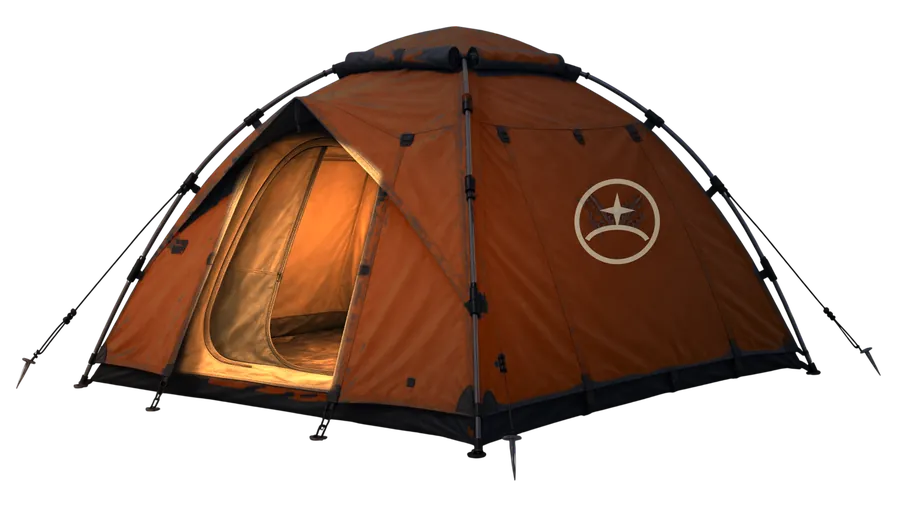
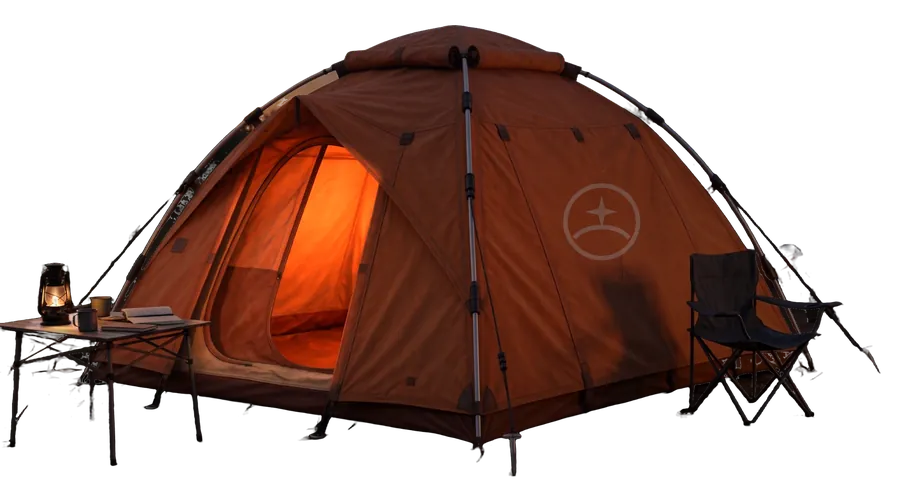
Camp: client's new tents, grounded lower, hover-expand labels
Use the client's three tent PNGs (with props): bookshelf icon on the
Library tent, About Us mirrored with the project mark. Place everything
lower on the dirt, tents larger, fire at 0.8x. Labels show only the
name; the description slides out on hover/focus.

Claude-Session: https://claude.ai/code/session_01KAb8PCX4ozAzeaMNThKSZM

diff --git a/index.html b/index.html
@@ -115,10 +115,10 @@
     <ul class="gc-camp__places" role="list">
 
       <li class="gc-camp__item">
-        <a class="gc-place gc-campfire" href="/kitchen-ideas/" style="--x:.62;--y:.745;--w:.13;--ar:.7122" aria-labelledby="gc-place-kitchen" aria-describedby="gc-place-kitchen-desc">
+        <a class="gc-place gc-campfire" href="/kitchen-ideas/" style="--x:.615;--y:.82;--w:.104;--ar:.7122" aria-labelledby="gc-place-kitchen" aria-describedby="gc-place-kitchen-desc">
           <span class="gc-place__art gc-campfire__art" aria-hidden="true">
             <span class="gc-campfire__glow"></span>
-            <img class="gc-campfire__img" src="assets/img/campfire-800.webp" srcset="assets/img/campfire-420.webp 420w, assets/img/campfire-800.webp 800w" sizes="(min-width: 900px) 14vw, 13.5rem" width="800" height="570" alt="">
+            <img class="gc-campfire__img" src="assets/img/campfire-800.webp" srcset="assets/img/campfire-420.webp 420w, assets/img/campfire-800.webp 800w" sizes="(min-width: 900px) 12vw, 13.5rem" width="800" height="570" alt="">
             <span class="gc-campfire__flame gc-campfire__flame--1"></span>
             <span class="gc-campfire__flame gc-campfire__flame--2"></span>
             <span class="gc-campfire__flame gc-campfire__flame--3"></span>
@@ -132,11 +132,11 @@
       </li>
 
       <li class="gc-camp__item">
-        <a class="gc-place gc-cabin gc-cabin--library" href="/library/" style="--x:.22;--y:.727;--w:.22;--ar:.5615;--sx:-.1" aria-labelledby="gc-place-library" aria-describedby="gc-place-library-desc">
+        <a class="gc-place gc-cabin gc-cabin--library" href="/library/" style="--x:.235;--y:.815;--w:.25;--ar:.558;--sx:-.1" aria-labelledby="gc-place-library" aria-describedby="gc-place-library-desc">
           <span class="gc-place__art" aria-hidden="true">
             <span class="gc-place__shadow"></span><span class="gc-place__light"></span>
-            <img class="gc-place__img" src="assets/img/tent-library-900.webp" srcset="assets/img/tent-library-260.webp 260w, assets/img/tent-library-520.webp 520w, assets/img/tent-library-900.webp 900w, assets/img/tent-library-1400.webp 1400w" sizes="(min-width: 900px) 24vw, 6.5rem" width="900" height="505" alt="" decoding="async">
-            <img class="gc-place__glow" src="assets/img/tent-library-glow.webp" width="520" height="292" alt="" loading="lazy">
+            <img class="gc-place__img" src="assets/img/tent-library-900.webp" srcset="assets/img/tent-library-260.webp 260w, assets/img/tent-library-520.webp 520w, assets/img/tent-library-900.webp 900w, assets/img/tent-library-1400.webp 1400w" sizes="(min-width: 900px) 27vw, 6.5rem" width="900" height="502" alt="" decoding="async">
+            <img class="gc-place__glow" src="assets/img/tent-library-glow.webp" width="520" height="290" alt="" loading="lazy">
           </span>
           <span class="gc-place__label">
             <span class="gc-place__name" id="gc-place-library">Library</span>
@@ -146,11 +146,11 @@
       </li>
 
       <li class="gc-camp__item">
-        <a class="gc-place gc-cabin gc-cabin--study" href="/study-groups/" style="--x:.395;--y:.66;--w:.165;--ar:.5615;--sx:-.08" aria-labelledby="gc-place-study" aria-describedby="gc-place-study-desc">
+        <a class="gc-place gc-cabin gc-cabin--study" href="/study-groups/" style="--x:.445;--y:.735;--w:.19;--ar:.558;--sx:-.08" aria-labelledby="gc-place-study" aria-describedby="gc-place-study-desc">
           <span class="gc-place__art" aria-hidden="true">
             <span class="gc-place__shadow"></span><span class="gc-place__light"></span>
-            <img class="gc-place__img" src="assets/img/tent-study-900.webp" srcset="assets/img/tent-study-260.webp 260w, assets/img/tent-study-520.webp 520w, assets/img/tent-study-900.webp 900w, assets/img/tent-study-1400.webp 1400w" sizes="(min-width: 900px) 18vw, 6.5rem" width="900" height="505" alt="" decoding="async">
-            <img class="gc-place__glow" src="assets/img/tent-study-glow.webp" width="520" height="292" alt="" loading="lazy">
+            <img class="gc-place__img" src="assets/img/tent-study-900.webp" srcset="assets/img/tent-study-260.webp 260w, assets/img/tent-study-520.webp 520w, assets/img/tent-study-900.webp 900w, assets/img/tent-study-1400.webp 1400w" sizes="(min-width: 900px) 21vw, 6.5rem" width="900" height="502" alt="" decoding="async">
+            <img class="gc-place__glow" src="assets/img/tent-study-glow.webp" width="520" height="290" alt="" loading="lazy">
           </span>
           <span class="gc-place__label">
             <span class="gc-place__name" id="gc-place-study">Study Groups</span>
@@ -160,11 +160,11 @@
       </li>
 
       <li class="gc-camp__item">
-        <a class="gc-place gc-cabin gc-cabin--about" href="/about/" style="--x:.80;--y:.715;--w:.2;--ar:.5615;--sx:.1" aria-labelledby="gc-place-about" aria-describedby="gc-place-about-desc">
+        <a class="gc-place gc-cabin gc-cabin--about" href="/about/" style="--x:.80;--y:.80;--w:.235;--ar:.558;--sx:.1" aria-labelledby="gc-place-about" aria-describedby="gc-place-about-desc">
           <span class="gc-place__art" aria-hidden="true">
             <span class="gc-place__shadow"></span><span class="gc-place__light"></span>
-            <img class="gc-place__img" src="assets/img/tent-about-900.webp" srcset="assets/img/tent-about-260.webp 260w, assets/img/tent-about-520.webp 520w, assets/img/tent-about-900.webp 900w, assets/img/tent-about-1400.webp 1400w" sizes="(min-width: 900px) 22vw, 6.5rem" width="900" height="505" alt="" decoding="async">
-            <img class="gc-place__glow" src="assets/img/tent-about-glow.webp" width="520" height="292" alt="" loading="lazy">
+            <img class="gc-place__img" src="assets/img/tent-about-900.webp" srcset="assets/img/tent-about-260.webp 260w, assets/img/tent-about-520.webp 520w, assets/img/tent-about-900.webp 900w, assets/img/tent-about-1400.webp 1400w" sizes="(min-width: 900px) 26vw, 6.5rem" width="900" height="502" alt="" decoding="async">
+            <img class="gc-place__glow" src="assets/img/tent-about-glow.webp" width="520" height="290" alt="" loading="lazy">
           </span>
           <span class="gc-place__label">
             <span class="gc-place__name" id="gc-place-about">About Us</span>

diff --git a/assets/css/main.css b/assets/css/main.css
@@ -324,11 +324,13 @@ ul[role="list"], ol[role="list"] { list-style: none; margin: 0; padding: 0; }
   }
 
   /* Label = a small plaque on the ground, under the element. */
-  .gc-place__label { width: max-content; max-width: 11.5rem; padding: .625rem .875rem; text-align: center; background: var(--color-scrim); border: 1px solid rgb(255 255 255 / .18); border-radius: 10px; }
+  .gc-place__label { position: relative; width: max-content; padding: .625rem 1rem; text-align: center; background: var(--color-scrim); border: 1px solid rgb(255 255 255 / .18); border-radius: 10px; }
   .gc-place:is(:hover, :focus-visible) .gc-place__label { border-color: rgb(255 200 61 / .8); }
-  .gc-cabin--study .gc-place__label { translate: 14% 0; } /* clear of the Library tent's guy lines */
   .gc-place__name { font-size: clamp(.9375rem, .8rem + .2vw, 1.0625rem); }
-  .gc-place__desc { font-size: clamp(.75rem, .7rem + .1vw, .8125rem); line-height: 1.4; }
+  /* Only the name shows at rest; the description slides out below it on hover/focus. */
+  .gc-place__desc { position: absolute; top: calc(100% + 6px); left: 50%; width: max-content; max-width: 13rem; margin: 0; padding: .5rem .75rem; font-size: clamp(.75rem, .7rem + .1vw, .8125rem); line-height: 1.4; background: rgb(0 12 30 / .92); border: 1px solid rgb(255 200 61 / .45); border-radius: 10px; opacity: 0; pointer-events: none; transform: translate(-50%, -6px); transition: opacity var(--duration-base) var(--ease-out), transform var(--duration-base) var(--ease-out); }
+  .gc-place:is(:hover, :focus-visible) { z-index: 5; }
+  .gc-place:is(:hover, :focus-visible) .gc-place__desc { opacity: 1; pointer-events: auto; transform: translate(-50%, 0); }
 
   .gc-place__art { width: 100%; }
   .gc-cabin { padding: 0; background: none; border: 0; }
@@ -338,9 +340,9 @@ ul[role="list"], ol[role="list"] { list-style: none; margin: 0; padding: 0; }
 /* Compact range (900–1199px): smaller plaques, no eyebrow, so labels and intro never collide. */
 @media (min-width: 900px) and (max-width: 1199.98px) {
   .gc-hero__eyebrow { display: none; }
-  .gc-place__label { max-width: 9.5rem; padding: .5rem .625rem; }
+  .gc-place__label { padding: .5rem .75rem; }
   .gc-place__name { font-size: .875rem; }
-  .gc-place__desc { font-size: .75rem; line-height: 1.35; }
+  .gc-place__desc { max-width: 11rem; font-size: .75rem; line-height: 1.35; }
 }
 
 /* --- Campfire (graded asset + three screen-blended flame copies flickering at 1.7/2.3/3.1s) */

diff --git a/README.md b/README.md
@@ -41,16 +41,16 @@ All images are WebP, served through `srcset`, so retina screens get sharp versio
 |---|---|
 | `assets/img/camp-bg-{1280,1920,2560,3342}.webp` | The client's dusk photo. Its original tents and fire were removed (LaMa inpainting), then it was upscaled 2× (EDSR super-resolution) |
 | `assets/img/camp-bg-portrait-{540,1060}.webp` | Phone version: a crop around the lake and fire, softly blurred because it sits under a scrim |
-| `assets/img/tent-{library,study,about}-{260,520,900,1400}.webp` | Tents, built from the client's transparent tent PNG |
+| `assets/img/tent-{library,study,about}-{260,520,900,1400}.webp` | The client's three tent PNGs, with their props: suitcase, books and lantern (Library); backpack (Study Groups); chair and table (About Us) |
 | `assets/img/tent-*-glow.webp` | Extra interior light, shown on hover and focus (`mix-blend-mode: screen`) |
 | `assets/img/campfire-{420,800}.webp` | The client's fire pit PNG, graded: dusk ambient, firelight on logs and stones, ember glow |
 | `assets/img/campfire-flame.webp` | The flames only. Three copies of it flicker at 1.7, 2.3 and 3.1 s |
 
 How the tents were built:
 
-- **Fabric colour:** recoloured to the reference. Library is olive, Study Groups grey and About Us orange.
+- **Fabric colour:** each tent keeps its own colour: blue for Library, beige for Study Groups and orange for About Us.
 - **Side icons:** the client's bookshelf icon for Library, the original group icon for Study Groups, and the project mark for About Us (in place of the lightbulb).
-- **Lighting:** graded to the dusk scene, with cool ambient light and a warm key from the fire side. The interior is lamp-lit through the door.
+- **Lighting:** graded to the dusk scene, with cool ambient light and a warm key from the fire side. The interior is lamp-lit through the door, and the lanterns keep their flames.
 - **Orientation:** About Us is mirrored, so its door faces left towards the fire. Mirroring keeps full resolution.
 
 ### Framing and coordinates
@@ -73,26 +73,26 @@ Each place is pinned to the same spot of the photo with values in **image fracti
 | `--x` | Horizontal centre of the element (0–1 of the photo width) |
 | `--y` | Bottom of the art, i.e. the stake tips or the base of the stones (0–1 of the photo height) |
 | `--w` | Width of the art (0–1 of the photo width) |
-| `--ar` | Art height ÷ width: 0.5615 for the tents, 0.7122 for the fire |
+| `--ar` | Art height ÷ width: 0.558 for the tents, 0.7122 for the fire |
 | `--sx` | Offset of the cast shadow. Negative values push it left, away from the fire |
 
-The ground of the photo was mapped and every element stands on the dirt clearing, which spans about x .20–.90 and y .60–.85. The back corners of each tent footprint stay on dirt, not on the bushes or the slope. The scale is realistic: the fire ring is about two thirds of a tent's width.
+The ground of the photo was mapped and every element stands on the dirt clearing, which spans about x .20–.90 and y .60–.85. The back corners of each tent footprint stay on dirt, not on the bushes or the slope. The scale is realistic: the fire ring is less than half a tent's width.
 
 | Place | `--x` | `--y` | `--w` |
 |---|---|---|---|
-| Kitchen Ideas (fire) | .62 | .745 | .13 |
-| Library | .22 | .727 | .22 |
-| Study Groups | .395 | .66 | .165 |
-| About Us | .80 | .715 | .20 |
+| Kitchen Ideas (fire) | .615 | .82 | .104 |
+| Library | .235 | .815 | .25 |
+| Study Groups | .445 | .735 | .19 |
+| About Us | .80 | .80 | .235 |
 
-**Labels.** The labels sit on the ground under each element, which keeps the sky clear for the title. They use Poppins (sans-serif) with generous vertical padding and have no underline on hover. From 900 to 1199px they are compact and the eyebrow line is hidden.
+**Labels.** A label sits on the ground under each element and shows only the category name, in Poppins (sans-serif) with generous vertical padding. On hover or keyboard focus, the description slides out below it, animated with opacity and transform only. It is always exposed to screen readers through `aria-describedby`. Phones keep the description visible in the cards, because they have no hover. From 900 to 1199px the labels are compact and the eyebrow line is hidden.
 
 **Below 900px.** The fire comes first, followed by three full-width cards, each with a tent on the left.
 
 ### Hover and focus
 
-- **Tents:** the tent rises 3px, the extra interior light fades in, the cast shadow tightens and the door light on the ground brightens. The label name and border turn amber.
-- **Fire:** the flames brighten.
+- **Tents:** the tent rises 3px, the extra interior light fades in, the cast shadow tightens and the door light on the ground brightens. The label name and border turn amber, and the description appears.
+- **Fire:** the flames brighten, and the description appears.
 
 ## WordPress conversion
 
@@ -154,7 +154,7 @@ The palette was sampled from the current site. The teal is darkened from `#00839
 | File | Size | Budget |
 |---|---|---|
 | `index.html` | 23.7 KB | ≤ 60 KB ✅ |
-| `assets/css/main.css` | 28.5 KB | ≤ 30 KB ✅ |
+| `assets/css/main.css` | 29.0 KB | ≤ 30 KB ✅ |
 | `assets/js/main.js` | 3.9 KB | ≤ 8 KB ✅ |
 | Fonts | 43 KB (4 files) | — |
 
@@ -171,7 +171,7 @@ All requests are local. There are no third-party requests.
 
 | Profile | Performance | Accessibility | Best Practices | SEO | LCP | FCP | CLS | TBT |
 |---|---|---|---|---|---|---|---|---|
-| Mobile (slow 4G, 4× CPU) | 98 | 100 | 100 | 92* | 2.4 s | 1.2 s | 0.002 | 0 ms |
+| Mobile (slow 4G, 4× CPU) | 97–98 | 100 | 100 | 92* | 2.4 s | 1.2 s | 0.002 | 0 ms |
 | Desktop | 100 | 100 | 100 | 92* | 0.7 s | 0.4 s | 0.001 | 0 ms |
 
 \* The only failing audit is the relative canonical.
@@ -195,5 +195,5 @@ Each brought it down from 2.8 s. Getting under 1.8 s would require dropping the 
 - **Paused animations:** the hero animations pause when the hero is off-screen and when the tab is hidden.
 - **Reduced motion:** no animations run, and hover still lights the tents.
 - **Contrast (WCAG 2.2 AA):**
-  - Hero text is measured on the rendered pixels at 390, 1024, 1440 and 1920px. The minimum is 8.4:1.
+  - Hero text is measured on the rendered pixels at 390, 1024, 1440 and 1920px. The minimum is 8.4:1. The open description panels measure at least 12:1.
   - Text in the light and dark sections passes; the lowest pair is 4.69:1.
